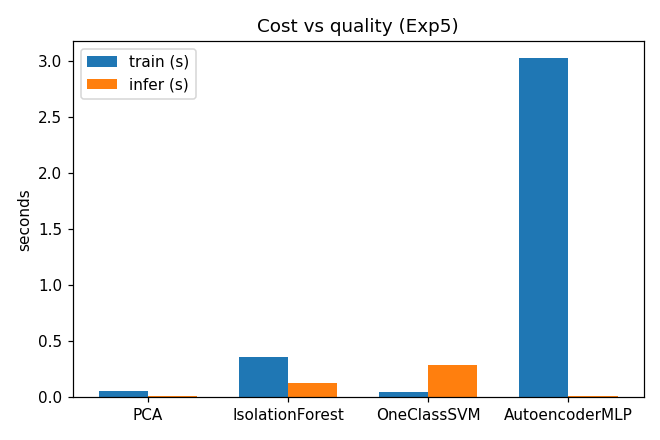
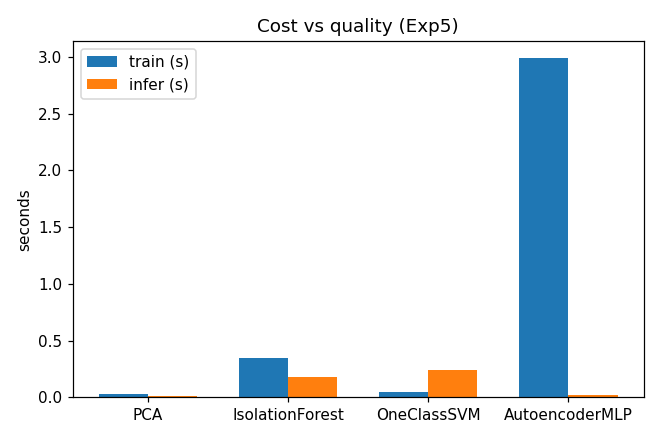
Auto-commit 2026-09-09 10:32:39

diff --git a/results/reports/exp5_summary.md b/results/reports/exp5_summary.md
@@ -6,17 +6,17 @@
 
 | model           |   precision |   recall |     f1 |    fpr |   auroc |   auprc |   support_benign |   support_attack |   tn |   fp |   fn |   tp |   train_s |   infer_s |
 |:----------------|------------:|---------:|-------:|-------:|--------:|--------:|-----------------:|-----------------:|-----:|-----:|-----:|-----:|----------:|----------:|
-| PCA             |      0.9881 |   0.5252 | 0.6858 | 0.0158 |  0.9139 |  0.9644 |             2400 |             6000 | 2362 |   38 | 2849 | 3151 |      0.06 |     0.014 |
-| IsolationForest |      0.7048 |   0.0123 | 0.0242 | 0.0129 |  0.8497 |  0.8966 |             2400 |             6000 | 2369 |   31 | 5926 |   74 |      0.36 |     0.128 |
-| OneClassSVM     |      0.9908 |   0.6605 | 0.7926 | 0.0154 |  0.9705 |  0.9871 |             2400 |             6000 | 2363 |   37 | 2037 | 3963 |      0.05 |     0.29  |
-| AutoencoderMLP  |      0.9916 |   0.7322 | 0.8424 | 0.0154 |  0.9674 |  0.9869 |             2400 |             6000 | 2363 |   37 | 1607 | 4393 |      3.03 |     0.015 |
+| PCA             |      0.9914 |   0.6522 | 0.7868 | 0.0142 |  0.9437 |  0.9781 |             2400 |             6000 | 2366 |   34 | 2087 | 3913 |      0.03 |     0.011 |
+| IsolationForest |      0.717  |   0.0127 | 0.0249 | 0.0125 |  0.8829 |  0.9107 |             2400 |             6000 | 2370 |   30 | 5924 |   76 |      0.35 |     0.177 |
+| OneClassSVM     |      0.9914 |   0.6937 | 0.8162 | 0.015  |  0.9835 |  0.9928 |             2400 |             6000 | 2364 |   36 | 1838 | 4162 |      0.05 |     0.244 |
+| AutoencoderMLP  |      0.994  |   0.8582 | 0.9211 | 0.0129 |  0.9916 |  0.9966 |             2400 |             6000 | 2369 |   31 |  851 | 5149 |      2.99 |     0.017 |
 
 ## Figures
 - `D:\Study\Sem 5\AIML lab\pca-network-anomaly-detection-clone\results\figures\runtime_exp5.png`
 
 ## What worked
-- best F1: AutoencoderMLP (0.842)
-- PCA: F1=0.686, train=0.06s (cheapest linear option)
+- best F1: AutoencoderMLP (0.921)
+- PCA: F1=0.787, train=0.03s (cheapest linear option)
 
 ## What failed
 - f
